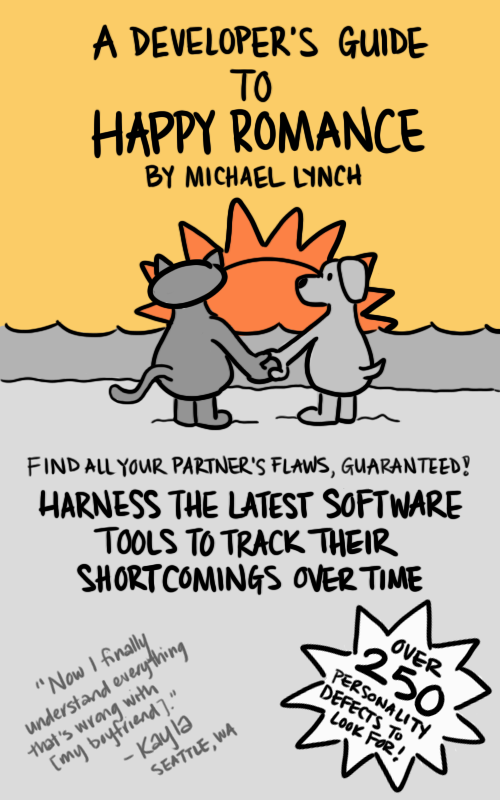
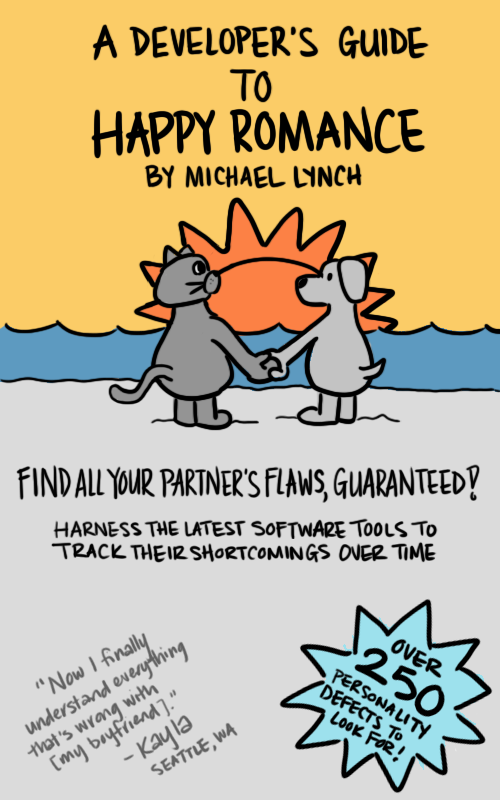
Updating post

diff --git a/_posts/2017-09-15-human-code-reviews.md b/_posts/2017-09-15-human-code-reviews.md
@@ -8,26 +8,30 @@ share: true
 related: true
 sidebar:
   nav: main
+header:
+  teaser: images/resized/2017-09-15-human-code-reviews/book-cover.png
 excerpt: 'Let''s talk about the interesting part of code reviews. Hint: It''s not
   finding bugs.'
 ---
 
-Recently, I've been reading up on best practices for code reviews. I realized all the tips apply equally well to managing romantic relationships, so I'm announcing my new ebook on the subject:
+Recently, I've been reading up on best practices for code reviews. I noticed that the articles online focus pretty heavily on bug-finding and don't really talk about the communication aspects of a code review.
+
+I realized all the best practices for code reviews apply equally well to managing romantic relationships, so I'm announcing my new ebook on the subject:
 
 <div align="center">
 {% include image.html file="book-cover.png" alt="EBook cover" max_width="350px"  img_link=true %}
 </div>
 
-My revolutionary ebook will teach you proven techniques for maximizing the deficiencies you find in your partner. The ebook does **not** cover:
+My revolutionary ebook will teach you proven techniques for maximizing the number of deficiencies you find in your partner. The ebook does **not** cover:
 
 * Communicating issues to your partner in a gentle and empathetic way.
 * Helping your partner address their weaknesses.
 
 Based on my reading of code review literature, those parts of a relationship are *obvious* and **not** worth discussing.
 
-Does this sound like a good ebook to you? I'm assuming you just yelped "Nonononono!"
+Does this sound like a good ebook to you? I'm assuming you just yipped "Nonononono!"
 
-Then why is this the way we talk about code reviews?
+So why is that the way we talk about code reviews?
 
 # Bug obsession
 
@@ -93,9 +97,11 @@ As if this wasn't hard enough, you also have the challenge of communicating your
 1.  [Start reviewing immediately](#start-reviewing-immediately)
 1. [Start high level and work your way down](#start-high-level-and-work-your-way-down)
 1. [Be generous with code examples](#be-generous-with-code-examples)
-1. [There’s no “you” in code review](#theres-no-you-in-code-review)
+1. [Never say “you”](#never-say-you)
 1. [Frame feedback as requests, not commands](#frame-feedback-as-requests-not-commands)
 1. [Tie notes to principles, not opinions](#tie-notes-to-principles-not-opinions)
+
+Techniques 9-16 are coming soon in part two of this post.
 
 ## Let computers do the boring parts
 
@@ -147,8 +153,6 @@ Arguments about style are a waste of time in code reviews. If you're not careful
 
 {% include image.html file="style-argument.jpg" alt="A typical style argument" max_width="700px" img_link=true %}
 
-**Note to Loraine**: I'd like this one to be a cartoon of the cat and dog choking each other because they're arguing. In the first panel, the cat is yelling "Tabs!" and the dog is yelling "Spaces!" In the second one, the cat is yelling, "Performance!" and the dog is yelling, "Simplicity!" They've stopped arguing about style because there's a style guide on the wall labeled "STYLE GUIDE" and the first rule is "Use spaces." There are more rules but they're indistinct text. Feel free to play around with it, especially how characters, text bubbles, etc are placed, but that's the idea I have in mind.
-
 A good style guide defines not only superficial elements like naming conventions or whitespace rules, but also specifies how you use the features of your programming language. Languages like JavaScript and Perl are packed with functionality, offering many different ways of implementing the same logic. A style guide can define The One True Way of doing things so that you don't end up in a situation where half of your team uses one set of language features while the other half uses a totally different set of features, turning your code into a collective mess.
 
 ***Option 1: Adopt an existing style guide***
@@ -169,35 +173,33 @@ Combining options 1 and 2, you can adopt an existing style guide as your base, t
 
 ## Start reviewing immediately
 
+**Note to Loraine**: Here I'd like to do an illustration of the dog passing a baton to the cat in a relay race, kind of like [this](http://c8.alamy.com/comp/E094XJ/athletics-runners-passing-baton-in-women%60s-4x400m-relay-race-at-club-E094XJ.jpg). But instead of a baton, it's the changelist, represented as a document like in the flow chart above. Maybe some kind of track outfits for the dog and cat, like shorts/running shoes/headband?
+
 Treat code reviews as a high priority task. When you're actually reading the code and giving feedback, take your time, but *start* your review immediately — ideally, within minutes.
 
 If a teammate sends you a code review, it likely means that they are blocked on other work until your review is done. In theory, most source control systems allow the author to branch, continue working, then forward-merge changes from the review to their new branch. In reality, there are like four people total who know how to do that without wasting a lot of time fighting with conflicts from three-way diffs.
 
 When you start code reviews immediately, you create a virtuous cycle. Your review turnaround becomes purely a function of the size and complexity of the author's changelist. This incentivizes authors to send small, narrowly-scoped changelists. These are easier and more pleasant for you to review, which allows you to review faster, and the cycle continues.
 
-Imagine that your teammate implemented a new feature that required 1000 lines of code changes. If they know you can review a 200-line changelist in about 2 hours, they can break their feature into changelists of about 200 lines each and get the whole feature checked in within a day or two. If, however, you take a day to do your code reviews, regardless of size, now it takes a week to get that feature checked in. Your teammate doesn't want to sit around for a week, so they're incentivized to send much larger code reviews, like 500-600 lines each.
+Imagine that your teammate implemented a new feature that required 1000 lines of code changes. If they know you can review a 200-line changelist in about 2 hours, they can break their feature into changelists of about 200 lines each and get the whole feature checked in within a day or two. If, however, you take a day to do your code reviews, regardless of size, now it takes a week to get that feature checked in. Your teammate doesn't want to sit around for a week, so they're incentivized to send much larger code reviews, like 500-600 lines each. These are more costly to review and lead to worse feedback because it's much more difficult to keep context on a 600-line change than a 200-line change.
 
-The absolute maximum turnaround on a code review should be one business day. If you're struggling with a higher priority issue and can't complete a round of review in under a day, let your teammate know and give them the opportunity to reassign to someone else. If you're forced to decline reviews more than about once per month, it likely means that your team needs to reduce its pace or scope so that you can maintain sane development practices.
+The absolute maximum turnaround on a code review round should be one business day. If you're struggling with a higher priority issue and can't complete a round of review in under a day, let your teammate know and give them the opportunity to reassign to someone else. If you're forced to decline reviews more than about once per month, it likely means that your team needs to reduce its pace or scope so that you can maintain sane development practices.
 
 ## Start high level and work your way down
 
-In a good code review, the author recognizes that the reviewer's notes are helpful for the author's growth and for improving the codebase. As you write more notes, you also increase the risk of making the author feel overwhelmed in a sea of notes. The limit will vary by person, but most developers will begin feeling overwhelmed somewhere between 20-50 notes in a single round of review.
+The more notes  you give in a given review round, the higher your risk of making the author feel overwhelmed. Most developers will begin feeling overwhelmed somewhere in the range of 20-50 notes in a single round of review.
 
-If you find yourself writing a potentially suffocating volume of notes in the first couple rounds of a review, trim your feedback to just high-level issues.
+If you're worried about drowning the author in a sea of notes, restrict yourself to high level feedback in early rounds. Focus on issues like redesigning a class interface or splitting up complex functions. Wait until those issues are resolved before tackling lower level issues, such as variable naming or clarity of code comments.
 
-Avoid overwhelming the author with notes by using the first round or two to hash out high level notes (e.g. "can we break this into two classes"), then defer your lower level notes (e.g. "can we choose a more descriptive name for this variable?") to later rounds.
-
-Your low level notes might become moot once the author integrates your high level notes. By deferring, you save yourself from doing unnecessary work and you . Beyond this, keeping the review to at one layer of abstraction at a time helps you and the author work through the changelist in a clear, systematic way.
-
-You really only need this on changelists that start off in a pretty bad place.  If you only have a handful of notes total, mixing high level and low level is fine and expedient.
+Your low level notes might become moot once the author integrates your high level notes. By deferring them to a later round, you save yourself the nontrivial work of writing carefully worded comments calling out the issues, and you save the author from reading processing unnecessary notes. This technique also segments the layers of abstraction you focus on during the review, helping you and the author work through the changelist in a clear, systematic way.
 
 ## Be generous with code examples
 
-With every note, you are essentially assigning the author work. A slew of code review notes can help the author grow in the long term, but in the short term, it's easy for an author to grow resentful of you and feel that you are hampering their progress on whatever their goals are.
+It's very easy for an author to become resentful of their reviewer during a code review. Maybe they're under deadline pressure, so anything other than your instant, rubber-stamp approval feels like you're standing in the way of their goals. Maybe you haven't worked together much, so they don't trust that your feedback is meant to be helpful.
 
-To combat this resentment, look for opportunities to show the author that you're helping them. An excellent way to help the developer is by shouldering some of the load of writing code. This shows them that you are generous with your time as a reviewer.
+A great way to prevent this is by giving them the gift all developers love to receive: code examples. If you lighten their load by actually writing some of the code changes you're suggesting, this demonstrates to the author that you are generous with your time as a reviewer.
 
-Volunteering code is especially useful if you and the author haven't reviewed code for each other much or if the author is not accustomed to having their code reviewed at all. Even if you and the author have built trust reviewing each other's code, sometimes just writing code is easier than describing the code you'd like them to write.
+**Note to Loraine**: Here, I'd like the cat to be giving the dog code with a bow on it. The dog is delighted. I'd like the code to be floating text in either Consolas or Courier New font.
 
 For example, imagine that you have a colleague who is not familiar with the [list comprehensions](http://treyhunner.com/2015/12/python-list-comprehensions-now-in-color/) feature of Python. They send you a code review that includes these lines:
 
@@ -221,66 +223,68 @@ urls = ['https://' + domain + path for path in paths]
 
 This technique is not limited to one-liners. I'll often create my own branch of the code to demonstrate a large proof of concept to the author, such as breaking up a large function or adding a unit test to cover an additional edge case.
 
-Reserve this technique for clear, uncontroversial improvements. In the list comprehension example above, few Python developers would object to an 83% reduction in lines of code. In contrast, if you write a lengthy code example to demonstrate a change that is "better" based on your own personal taste (e.g. style changes), code examples can make you look pushy instead of generous.
+Reserve this technique for clear, uncontroversial improvements. In the list comprehension example above, few Python developers would object to an 83% reduction in lines of code. In contrast, if you write a lengthy code example to demonstrate a change that is "better" based on your own personal taste (e.g. style changes), code examples make you look pushy instead of generous.
 
-Limit yourself to two or three code examples per review round. If you start writing their whole changelist for them, it can signal that you don't think they're capable of writing their own code.
+Limit yourself to two or three code examples per review round. If you start writing their whole changelist for them, it signals that you don't think the author is capable of writing their own code.
 
-## There's no "you" in code review
+## Never say "you"
 
 This one is going to sound weird, but hear me out: never use the word "you" in a code review.
 
-Good developers take pride in their work. It's great to find teammates who can completely detach emotion from their work and accept criticism graciously, but it's rare to find people who are going to be consistently excited about hearing their work criticized. The natural human reaction to criticism is to be protective and defensive.
+It would be great if code reviews were completely objective — just emotionless discussions of different strategies and their engineering tradeoffs. But since you and your teammates are humans, you must always keep the human factors of code review in mind.  When people hear criticism of something they did, their natural reaction is to feel protective and defensive, which is not conducive to a productive discussion about what coding decisions would be best.
 
-As the reviewer, you want to avoid triggering these defenses. Be clear that you're giving feedback about the code, not the coder. One way to do this is to avoid ever using the word "you" in your code review notes.
+Word your feedback in a way that minimizes the risk of raising your teammate's defenses. Be clear that you're giving feedback about the code, not the coder. If you write "you" in a comment, it brings the author's focus away from the code and back to themselves, and increases the risk that they'll take your criticism personally.
 
-Even if you make a harmless comment like, "You misspelled 'successfully'," the author might interpret that note in two very different ways:
+Consider a harmless comment like, "You misspelled 'successfully'." The author can interpret that note in two very different ways:
 
 * **Interpretation 1**: "Hey, good buddy! You misspelled 'successfully,' but I still think you're smart, and it was probably just a typo."
 * **Interpretation 2**: "You misspelled 'successfully,' dumbass."
 
-There are a few easy ways to avoid using the word "you" in your code review notes.
+Fortunately, it's easy to rewrite your feedback to avoid the word "you."
 
 ***Option 1: Replace 'you' with 'we'***
 
-For example:
-
->Can **you** change this variable name to something more descriptive, like `seconds_remaining`?
+>Can **you** rename this variable to something more descriptive, like `seconds_remaining`?
 
 becomes:
 
->Can **we** change this variable name to something more descriptive, like `seconds_remaining`?
+>Can **we** rename this variable to something more descriptive, like `seconds_remaining`?
 
-When you say, "we," you reinforce the idea of a collective responsibility for the code. The author may move on to a different team or organization, but code sticks around for years and needs maintainers. In some cases, it does sound silly to say "we" when you're clearly referring to the author, but I'd rather my notes sound silly than accusatory.
+"We" reinforces the team's collective responsibility for the code. The author may leave the team and so might you, but the team will stick around in one form or another.
 
-{% include image.html file="move-couch1.png" alt="Moving couch cartoon" max_width="500px" img_link=true %}
+In some cases, it sounds silly to say "we" when it's clearly something you expect the author to do themselves, but I'd rather my notes sound silly than accusatory.
+
+{% include image.html file="move-couch.png" alt="Moving couch cartoon" max_width="500px" img_link=true %}
 
 ***Option 2: Remove the subject from the sentence***
 
-Another way to get around this is to use a shorthand that omits the subject from the sentence:
+Another way to get around "you" is to use a shorthand that omits the subject from the sentence:
 
->Suggest renaming to something more descriptive, like `seconds_remaining`.
+>**Suggest renaming** to something more descriptive, like `seconds_remaining`.
 
-**Beyond just 'you'**
+I generally avoid [passive voice](https://en.wikipedia.org/wiki/English_passive_voice) like the plague in my technical writing, but it can be a helpful way of writing around "you":
 
-Even if you avoid writing "you" that doesn't guarantee your notes sound respectful. If you leave a note like, "This is completely out of line with best practices for JavaScript," you didn't say "you" but the note still reads as very judgmental. It's very easy to fall into this when you're disappointed with the quality in a changelist and you feel the author should know better.
-
-Does it sound like judgment? How would I write this comment to a developer who I respect highly?
+>This variable **should be renamed** to something more descriptive, like `seconds_remaining`.
 
 ## Frame feedback as requests, not commands
 
-Bizarrely, I find that reviewers tend to be less polite in code reviews than they are in real life. You actually want to be *more* polite. Err on the side of being annoyingly gentle. Most people would never say out loud to a co-worker, "Hand me that stapler then fetch me a soda," but I've seen numerous code reviewers frame feedback as similarly pushy commands during code reviews, "Move this class to a separate file."
+As I've discussed, code review requires more tact and care than usual communication because the risk of a fight is much higher. Bizarrely, I find that reviewers tend to be less polite in code reviews than they are in real life.
 
-Instead, frame your feedback as requests. Compare this comment framed in two different ways:
+Err on the side of being annoyingly gentle. Most people would never say out loud to a co-worker, "Hand me that stapler then fetch me a soda," but I've seen numerous code reviewers frame feedback with similarly pushy commands, such as, "Move this class to a separate file."
 
-| Command | Request |
+Instead, frame your feedback as requests. Compare the same note framed in two different ways:
+
+| Feedback framed as command | Feedback framed as request |
 |----|---|
 | Move the `Foo` class to a separate file. | Can we move the `Foo` class to a separate file? |
 
-It gives the author a sense of autonomy. People like to feel in control of their own work. It also makes discussion easier if the author needs to push back. Maybe they have a good reason for their choice. If you frame your feedback as a command, pushing back requires them to disobey your order. If you frame your feedback as a request or a question, they can simply answer your question.
+Making a request of the author gives them a sense of autonomy. People like to feel in control of their own work.
 
-If the author has to push back, compare how combative the conversation seems depending on how the reviewer frames their initial note:
+Requests also makes discussion easier if the author needs to push back. Maybe they have a good reason for their choice. If you frame your feedback as a command, pushing back requires them to disobey your order. If you frame your feedback as a request or a question, they can simply answer your question.
 
-| Command | Request |
+Compare how combative the conversation seems depending on how the reviewer frames their initial note:
+
+| Feedback framed as command | Feedback framed as request |
 |---|---|
 | **Reviewer**: Move the `Foo` class to a separate file.<br>**Author**: I don't want to do that because then it's far away from the `Bar` class. Clients will almost always use the two together.  | **Reviewer**: Can we move the `Foo` class to a separate file?<br>**Author**: We could, but then it's far away from the `Bar` class, and clients will generally use these two classes together. What do you think? |
 
@@ -288,22 +292,20 @@ See how much more civil the conversation becomes when ~~you validate your argume
 
 ## Tie notes to principles, not opinions
 
-For example, instead of saying, "We should split this class into two," it's much better to say, "We should split this class into two so that we're in line with the [single responsibility principle](https://en.wikipedia.org/wiki/Single_responsibility_principle)."
+When you suggest a change, you should not only suggest the change, but the reason for the change. For example, instead of saying, "We should split this class into two," it's much better to say, "We should split this class into two so that we're in line with the [single responsibility principle](https://en.wikipedia.org/wiki/Single_responsibility_principle)."
 
-Grounding your notes in principles frames the discussion in a constructive way. If you cited a specific reason, like "We should make this function private to minimize the class's public interface," the author can't simply respond, "No, I prefer it my way," because you've provided a specific reason and they haven't.
+Grounding your notes in principles frames the discussion in a constructive way. When you cite a specific reason, like "We should make this function private to minimize the class's public interface," the author can't simply respond, "No, I prefer it my way." Or rather, then *can*, but it would look silly because you provided a reason that the change satisfies a goal of the software and they just stated a preference.
 
-Try to give objective notes. If you say, "Refactor, this is ugly," you can't really have a discussion about this.  Things like "we can avoid duplicating logic if we refactor these lines into a shared function," that frames the discussion in terms of tangible goals.
+Software development is both a science and an art. In some cases, you can't articulate what's exactly is wrong with a piece of code in terms of established principles. Sometimes things are just ugly or unintuitive and it's hard to pin down why. In these cases, you can still give feedback, but keep it objective.  If you say, "**I** found this hard to understand," that's at least an objective statement, as opposed to "**this is** confusing," which is a value judgment and varies by person.
 
-Software development is both a science and an art, so it's not always possible to articulate exactly what's wrong with a piece of code in terms of established principles. Sometimes things are just ugly or unintuitive and it's hard to pin down exactly why. In these cases, try to keep it as objective as possible.  If you say, "**I** found this hard to understand," that's at least an objective statement, as opposed to "**this is** confusing," which is a value judgment and varies by person.
-
-Provide supporting evidence where possible in the form of links.  The best thing to link to is your style guide. You can also link to documentation for the language or library. Highly-upvoted [StackOverflow](https://stackoverflow.com) answers can work as well, but the farther you get from authoritative documentation, the shakier your evidence becomes.
+Provide supporting evidence where possible in the form of links.  The best thing to link to is the relevant section of your style guide. You can also link to documentation for the language or library. Highly-upvoted [StackOverflow](https://stackoverflow.com) answers can work as well, but the farther you get from authoritative documentation, the shakier your evidence becomes.
 
 # More tips
 
-I'll be publishing the second half of this article in a week or two. Stay tuned for additional tips including:
+I'll be publishing the second half of this article in a few weeks or two. Stay tuned for additional tips including:
 
 * Handling excessively large code reviews
-* Recognizing the scope of a review and staying within it
+* Respecting the scope of a review
 * Mitigating stalemates
 
 *Illustrations by Loraine Yow. Thanks to [@global4g](https://twitter.com/global4g) for providing valuable feedback on an early draft of this post.*
